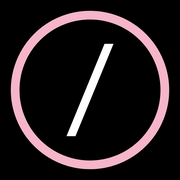
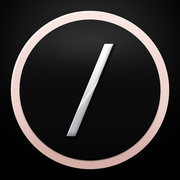
Sito in cipria (cerchio del sigillo e accenti); versione rosa conservata in img/rosa
Claude-Session: https://claude.ai/code/session_017KmhunAAwWAfwxRvd91t3Q

Changed region(s): [[0.0556, 0.0, 0.9444, 0.7778], [0.1389, 0.6667, 0.8611, 0.9444]]

diff --git a/style.css b/style.css
@@ -1,5 +1,5 @@
 /* Time Trial — stile del sito con l'identità di marca v2 (06/11/2026).
-   Bianco e nero come base, rosa #F4B6C8 solo come accento (max 10%),
+   Bianco e nero come base, cipria #EFD4CF come accento e per i fondi (dal 09/11/2026),
    cipria #EFD4CF per i fondi. Angoli 4 (schede) e 2 (pulsanti), nessuna ombra.
    Carattere: Inter (OFL, ospitato qui, nessun servizio esterno). Akkurat solo
    nel logo (tracciati), finché non c'è la licenza web. */
@@ -10,8 +10,10 @@
 :root {
   --black: #000000;
   --white: #FFFFFF;
-  --rosa: #F4B6C8;          /* accento: mai testo su bianco */
-  --rosa-testo: #B3546F;    /* rosa per testo su bianco (4,8:1) */
+  /* Colore del cerchio e degli accenti: cipria dal 09/11/2026 (scelta di Amilcare).
+     Per tornare al rosa: --accento: #F4B6C8 e --link: #B3546F, e i file in img/rosa/. */
+  --accento: #EFD4CF;       /* mai testo su bianco */
+  --link: var(--black);
   --cipria: #EFD4CF;        /* fondi; sopra solo testo nero */
   --g900: #141414;
   --g700: #3A3A3A;
@@ -43,7 +45,7 @@ body {
 img { max-width: 100%; height: auto; display: block; }
 a { color: inherit; text-underline-offset: 3px; text-decoration-thickness: 1px; }
 a:hover { text-decoration-thickness: 2px; }
-:focus-visible { outline: 2px solid var(--rosa-testo); outline-offset: 3px; }
+:focus-visible { outline: 2px solid var(--link); outline-offset: 3px; }
 .skip { position: absolute; left: -9999px; }
 .skip:focus { left: 16px; top: 16px; background: var(--black); color: var(--white); padding: 10px 14px; z-index: 10; }
 
@@ -62,7 +64,7 @@ header.top {
 nav.links { display: flex; gap: 22px; font-size: 15px; font-weight: 500; }
 nav.links a { text-decoration: none; }
 nav.links a:hover { text-decoration: underline; }
-nav.links a[aria-current="page"] { text-decoration: underline; text-decoration-color: var(--rosa); text-decoration-thickness: 3px; }
+nav.links a[aria-current="page"] { text-decoration: underline; text-decoration-color: var(--accento); text-decoration-thickness: 3px; }
 .lang { display: flex; gap: 6px; }
 .circle {
   display: inline-flex; align-items: center; justify-content: center;
@@ -87,7 +89,7 @@ p { margin: 0 0 14px; }
   font-size: 12px; font-weight: 700; letter-spacing: 0.12em; text-transform: uppercase;
   border: 1px solid currentColor; border-radius: var(--r-btn); padding: 7px 12px;
 }
-.tag::before { content: ""; width: 8px; height: 8px; border-radius: 50%; background: var(--rosa); }
+.tag::before { content: ""; width: 8px; height: 8px; border-radius: 50%; background: var(--accento); }
 
 .button {
   display: inline-flex; align-items: center; gap: 10px;
@@ -154,7 +156,7 @@ p { margin: 0 0 14px; }
 .legal .card p:last-child { margin-bottom: 0; }
 .legal section + section { margin-top: 80px; padding-top: 48px; border-top: 1px solid var(--black); }
 .legal ul, .legal ol { padding-left: 22px; margin: 0 0 12px; }
-.legal a { color: var(--rosa-testo); font-weight: 500; }
+.legal a { color: var(--link); font-weight: 500; text-decoration-color: var(--g300); }
 .updated { color: var(--muted); margin: 0 0 28px; }
 .legal table { width: 100%; border-collapse: collapse; font-size: 15px; }
 .legal th, .legal td { text-align: left; padding: 10px 8px; border-bottom: 1px solid var(--g100); vertical-align: top; }
@@ -166,7 +168,7 @@ p { margin: 0 0 14px; }
 .legal .card p.invite-code {
   font-size: 44px; font-weight: 700; letter-spacing: 6px; text-align: center;
   font-variant-numeric: tabular-nums; margin: 8px 0 12px; color: var(--black);
-  background: var(--white); border-top: 4px solid var(--rosa); border-radius: var(--r-card); padding: 18px 8px;
+  background: var(--white); border-top: 4px solid var(--accento); border-radius: var(--r-card); padding: 18px 8px;
   user-select: all;
 }
 
@@ -178,7 +180,7 @@ footer.site p { margin: 0 0 8px; }
 footer.site a { color: var(--white); }
 footer.site nav { display: flex; flex-wrap: wrap; gap: 8px 22px; font-weight: 500; }
 footer.site nav a { text-decoration: none; }
-footer.site nav a:hover { text-decoration: underline; text-decoration-color: var(--rosa); }
+footer.site nav a:hover { text-decoration: underline; text-decoration-color: var(--accento); }
 @media (max-width: 760px) { footer.site .wrap { grid-template-columns: 1fr; } }
 
 @media print {
@@ -188,3 +190,4 @@ footer.site nav a:hover { text-decoration: underline; text-decoration-color: var
 }
 .legal .circle, .legal .brand { color: var(--black); font-weight: 700; }
 .legal .circle:hover { color: var(--white); }
+.hero :focus-visible, footer.site :focus-visible { outline-color: var(--white); }

diff --git a/it.html b/it.html
@@ -6,9 +6,9 @@
 <title>Time Trial · Ogni orologio. Un solo calendario.</title>
 <meta name="description" content="Time Trial è l'app di allenamento per atleti di endurance e i loro coach. Pianifica dal telefono, allenati con l'orologio che hai già, tieni tutto in un solo calendario.">
 <meta name="theme-color" content="#000000">
-<link rel="icon" href="favicon.ico?v=2" sizes="any">
-<link rel="icon" href="icon.svg?v=2" type="image/svg+xml">
-<link rel="apple-touch-icon" href="apple-touch-icon.png?v=2">
+<link rel="icon" href="favicon.ico?v=3" sizes="any">
+<link rel="icon" href="icon.svg?v=3" type="image/svg+xml">
+<link rel="apple-touch-icon" href="apple-touch-icon.png?v=3">
 <link rel="alternate" hreflang="en" href="https://timetrial.io/">
 <link rel="alternate" hreflang="it" href="https://timetrial.io/it.html">
 <meta property="og:type" content="website">

diff --git a/index.html b/index.html
@@ -6,9 +6,9 @@
 <title>Time Trial · Every watch. One calendar.</title>
 <meta name="description" content="Time Trial is a training app for endurance athletes and their coaches. Plan on your phone, train with the watch you already have, keep everything in one calendar.">
 <meta name="theme-color" content="#000000">
-<link rel="icon" href="favicon.ico?v=2" sizes="any">
-<link rel="icon" href="icon.svg?v=2" type="image/svg+xml">
-<link rel="apple-touch-icon" href="apple-touch-icon.png?v=2">
+<link rel="icon" href="favicon.ico?v=3" sizes="any">
+<link rel="icon" href="icon.svg?v=3" type="image/svg+xml">
+<link rel="apple-touch-icon" href="apple-touch-icon.png?v=3">
 <link rel="alternate" hreflang="en" href="https://timetrial.io/">
 <link rel="alternate" hreflang="it" href="https://timetrial.io/it.html">
 <meta property="og:type" content="website">

diff --git a/auth.html b/auth.html
@@ -8,9 +8,9 @@
 <!-- Il link contiene un codice monouso: non passarlo ad altri siti -->
 <meta name="referrer" content="no-referrer">
 <meta name="theme-color" content="#FFFFFF">
-<link rel="icon" href="favicon.ico?v=2" sizes="any">
-<link rel="icon" href="icon.svg?v=2" type="image/svg+xml">
-<link rel="apple-touch-icon" href="apple-touch-icon.png?v=2">
+<link rel="icon" href="favicon.ico?v=3" sizes="any">
+<link rel="icon" href="icon.svg?v=3" type="image/svg+xml">
+<link rel="apple-touch-icon" href="apple-touch-icon.png?v=3">
 <link rel="stylesheet" href="style.css">
 <style>
   .hide { display: none; }

diff --git a/delete-account.html b/delete-account.html
@@ -5,9 +5,9 @@
 <meta name="viewport" content="width=device-width, initial-scale=1">
 <title>Delete your account · Time Trial</title>
 <meta name="theme-color" content="#FFFFFF">
-<link rel="icon" href="favicon.ico?v=2" sizes="any">
-<link rel="icon" href="icon.svg?v=2" type="image/svg+xml">
-<link rel="apple-touch-icon" href="apple-touch-icon.png?v=2">
+<link rel="icon" href="favicon.ico?v=3" sizes="any">
+<link rel="icon" href="icon.svg?v=3" type="image/svg+xml">
+<link rel="apple-touch-icon" href="apple-touch-icon.png?v=3">
 <link rel="stylesheet" href="style.css">
 </head>
 <body>

diff --git a/privacy.html b/privacy.html
@@ -5,9 +5,9 @@
 <meta name="viewport" content="width=device-width, initial-scale=1">
 <title>Privacy Policy · Time Trial</title>
 <meta name="theme-color" content="#FFFFFF">
-<link rel="icon" href="favicon.ico?v=2" sizes="any">
-<link rel="icon" href="icon.svg?v=2" type="image/svg+xml">
-<link rel="apple-touch-icon" href="apple-touch-icon.png?v=2">
+<link rel="icon" href="favicon.ico?v=3" sizes="any">
+<link rel="icon" href="icon.svg?v=3" type="image/svg+xml">
+<link rel="apple-touch-icon" href="apple-touch-icon.png?v=3">
 <link rel="stylesheet" href="style.css">
 </head>
 <body>

diff --git a/terms.html b/terms.html
@@ -5,9 +5,9 @@
 <meta name="viewport" content="width=device-width, initial-scale=1">
 <title>Terms of Use · Time Trial</title>
 <meta name="theme-color" content="#FFFFFF">
-<link rel="icon" href="favicon.ico?v=2" sizes="any">
-<link rel="icon" href="icon.svg?v=2" type="image/svg+xml">
-<link rel="apple-touch-icon" href="apple-touch-icon.png?v=2">
+<link rel="icon" href="favicon.ico?v=3" sizes="any">
+<link rel="icon" href="icon.svg?v=3" type="image/svg+xml">
+<link rel="apple-touch-icon" href="apple-touch-icon.png?v=3">
 <link rel="stylesheet" href="style.css">
 </head>
 <body>

diff --git a/invite.html b/invite.html
@@ -6,9 +6,9 @@
 <title>Invitation · Time Trial</title>
 <meta name="robots" content="noindex">
 <meta name="theme-color" content="#FFFFFF">
-<link rel="icon" href="favicon.ico?v=2" sizes="any">
-<link rel="icon" href="icon.svg?v=2" type="image/svg+xml">
-<link rel="apple-touch-icon" href="apple-touch-icon.png?v=2">
+<link rel="icon" href="favicon.ico?v=3" sizes="any">
+<link rel="icon" href="icon.svg?v=3" type="image/svg+xml">
+<link rel="apple-touch-icon" href="apple-touch-icon.png?v=3">
 <link rel="stylesheet" href="style.css">
 </head>
 <body>
